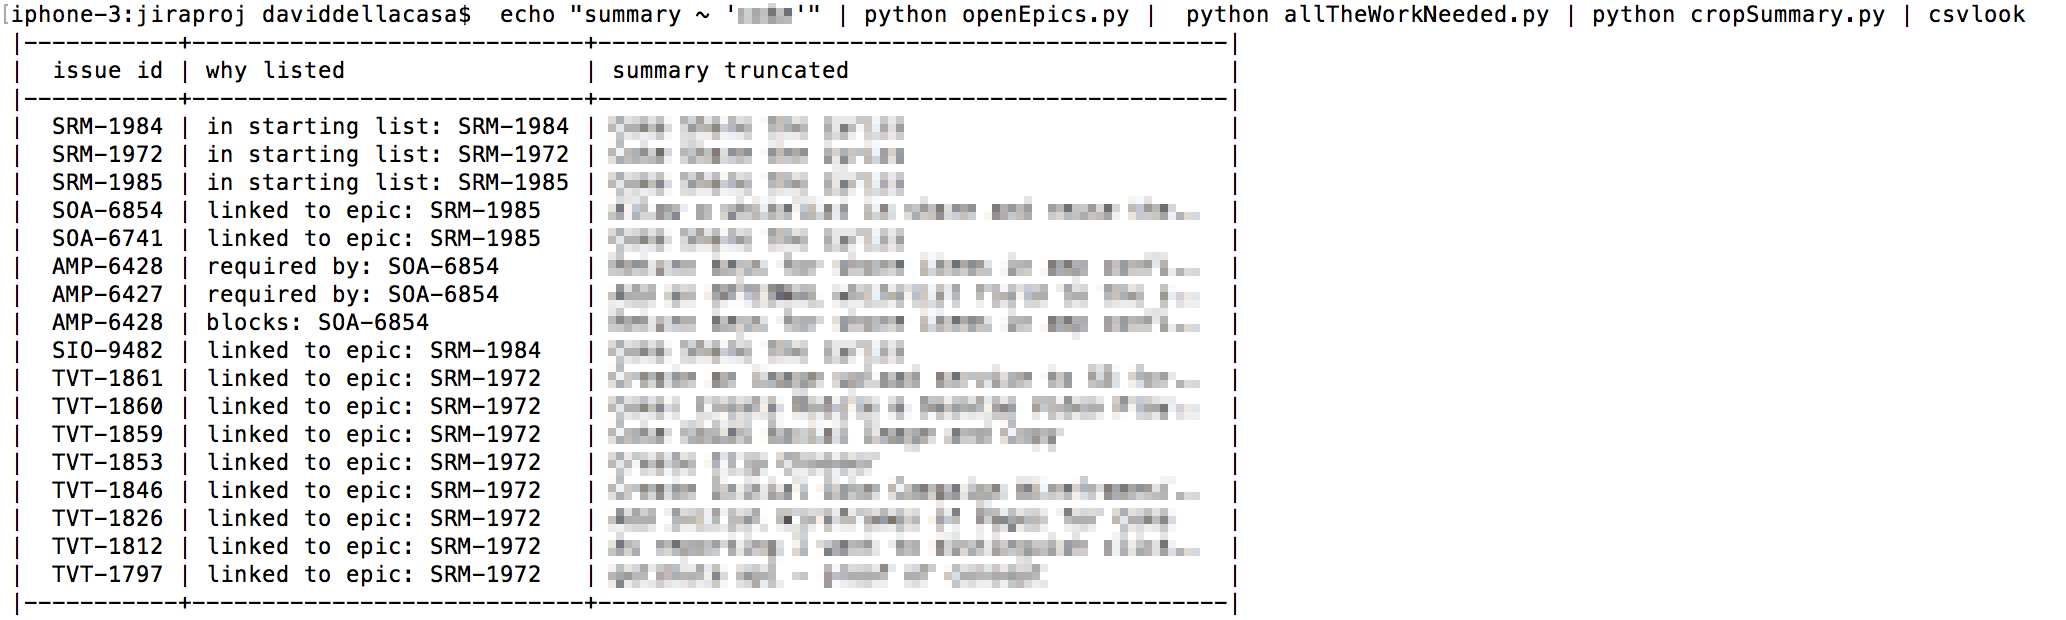
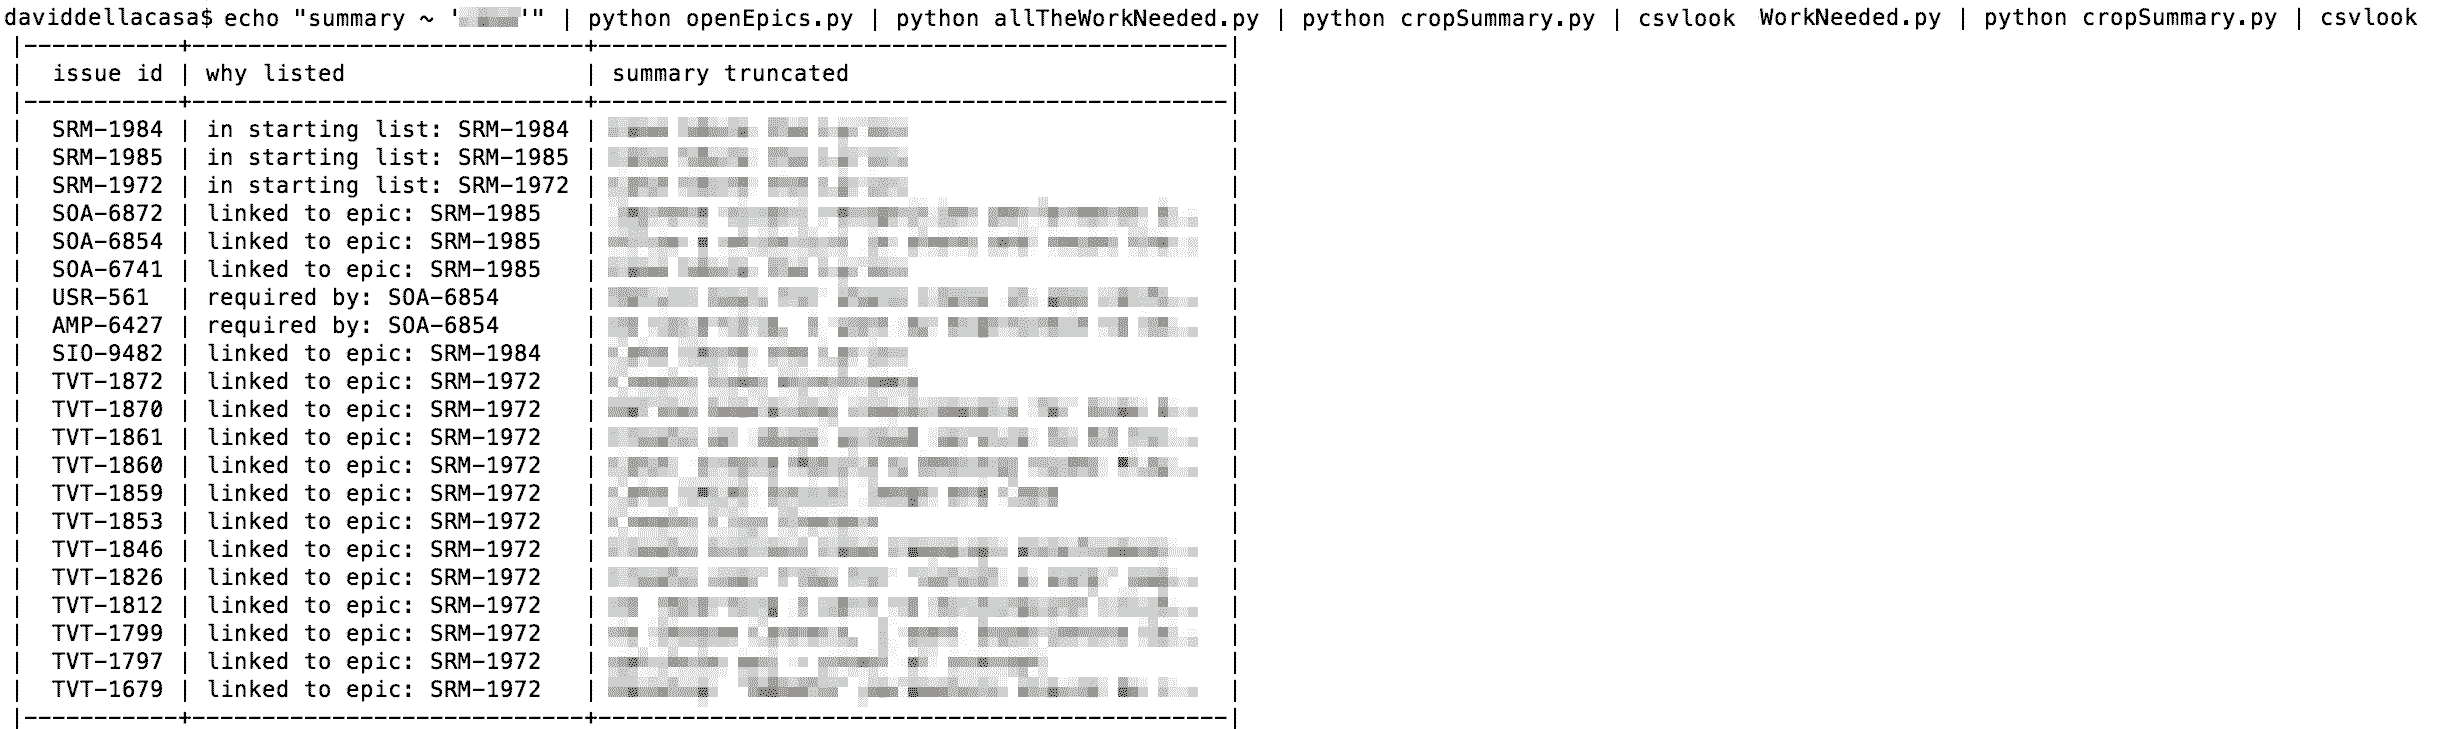
cleaning up a little allTheWorkNeeded.py and making sure there are no duplicates in the final list

Changed region(s): [[0.0, 0.0, 0.9913, 1.0]]

diff --git a/allTheWorkNeeded.py b/allTheWorkNeeded.py
@@ -1,5 +1,7 @@
-# This script shows how to connect to a JIRA instance with a
-# username and password over HTTP BASIC authentication.
+# This script "closes" an initial list of issues under
+# the operations of "subtasks, bloked by, requires, linked issues to this epic"
+# it's not a tree because the links can point to any issue, so it's
+# a proper graph visit.
 
 from jira.client import JIRA
 import csv
@@ -8,14 +10,20 @@ import time
 import configurationData
 
 reader = csv.reader(sys.stdin)
-processedIssues = {}
-issuesToBeProcessed = {}
-       
-# By default, the client will connect to a JIRA instance started from the Atlassian Plugin SDK.
-# See
-# https://developer.atlassian.com/display/DOCS/Installing+the+Atlassian+Plugin+SDK
-# for details.
 
+# a processed issue is an issue where all the
+# "subtasks, bloked by, requires, linked issues to this epic"
+# have been output in the list. Note that these outputted issues
+# might not be "processedIssues" yet. This list only grows.
+processedIssues = {}
+
+# queue of issues to be processed. This list grows and shrinks.
+issuesToBeProcessed = {}
+
+# all issues that make to the list end up here. Not all these
+# issues might be processedIssues yet. This list only grows.
+listedIssues = {}
+       
 options = {
     'server': configurationData.jiraServerUrl
 }
@@ -37,14 +45,17 @@ for row in csv.reader(iter(sys.stdin.readline, '')):
 	rowNumber = rowNumber + 1
 	# skip header
 	if rowNumber > 1:
-		issuesToBeProcessed[row[0]] = row
 
 		key = row[0]
 		# first, get the very issue itself. It's a query that will return only one issue.
 		issues = jira.search_issues('id in (' + key + ')')
 		for eachIssue in issues:
-			writer.writerow({'issue id': eachIssue.key, 'why listed': 'in starting list: ' + key, 'summary': eachIssue.fields.summary})
-			sys.stdout.flush()
+			if (not eachIssue.key in processedIssues) and (not eachIssue.key in listedIssues):
+				issuesToBeProcessed[eachIssue.key] = 1
+				listedIssues[eachIssue.key] = 1
+				listedIssues[eachIssue.key] = 1
+				writer.writerow({'issue id': eachIssue.key, 'why listed': 'in starting list: ' + key, 'summary': eachIssue.fields.summary})
+				sys.stdout.flush()
 
 
 while issuesToBeProcessed:
@@ -60,40 +71,40 @@ while issuesToBeProcessed:
 	issues = jira.search_issues('parent in (' + key + ')')
 	for eachIssue in issues:
 		#print ' > '+ eachIssue
-		if eachIssue.key in processedIssues:
-			continue
-		issuesToBeProcessed[''+eachIssue.key] = 1
-		writer.writerow({'issue id': eachIssue.key, 'why listed': 'child of: ' + key, 'summary': eachIssue.fields.summary})
-		sys.stdout.flush()
+		if (not eachIssue.key in processedIssues) and (not eachIssue.key in listedIssues):
+			issuesToBeProcessed[eachIssue.key] = 1
+			listedIssues[eachIssue.key] = 1
+			writer.writerow({'issue id': eachIssue.key, 'why listed': 'child of: ' + key, 'summary': eachIssue.fields.summary})
+			sys.stdout.flush()
 
 	issues = jira.search_issues('"Epic Link" in (' + key + ')')
 	for eachIssue in issues:
 		#print ' > '+ eachIssue
-		if eachIssue.key in processedIssues:
-			continue
-		issuesToBeProcessed[''+eachIssue.key] = 1
-		writer.writerow({'issue id': eachIssue.key, 'why listed': 'linked to epic: ' + key, 'summary': eachIssue.fields.summary})
-		sys.stdout.flush()
+		if (not eachIssue.key in processedIssues) and (not eachIssue.key in listedIssues):
+			issuesToBeProcessed[eachIssue.key] = 1
+			listedIssues[eachIssue.key] = 1
+			writer.writerow({'issue id': eachIssue.key, 'why listed': 'linked to epic: ' + key, 'summary': eachIssue.fields.summary})
+			sys.stdout.flush()
 
 	issues = jira.search_issues('issue in linkedIssues(' + key + ',"requires")')
 	for eachIssue in issues:
 		#print ' > '+ eachIssue
-		if eachIssue.key in processedIssues:
-			continue
-		issuesToBeProcessed[''+eachIssue.key] = 1
-		writer.writerow({'issue id': eachIssue.key, 'why listed': 'required by: ' + key, 'summary': eachIssue.fields.summary})
-		sys.stdout.flush()
+		if (not eachIssue.key in processedIssues) and (not eachIssue.key in listedIssues):
+			issuesToBeProcessed[eachIssue.key] = 1
+			listedIssues[eachIssue.key] = 1
+			writer.writerow({'issue id': eachIssue.key, 'why listed': 'required by: ' + key, 'summary': eachIssue.fields.summary})
+			sys.stdout.flush()
 
 	issues = jira.search_issues('issue in linkedIssues(' + key + ',"is blocked by")')
 	for eachIssue in issues:
 		#print ' > '+ eachIssue
-		if eachIssue.key in processedIssues:
-			continue
-		issuesToBeProcessed[''+eachIssue.key] = 1
-		writer.writerow({'issue id': eachIssue.key, 'why listed': 'blocks: ' + key, 'summary': eachIssue.fields.summary})
-		sys.stdout.flush()
+		if (not eachIssue.key in processedIssues) and (not eachIssue.key in listedIssues):
+			issuesToBeProcessed[eachIssue.key] = 1
+			listedIssues[eachIssue.key] = 1
+			writer.writerow({'issue id': eachIssue.key, 'why listed': 'blocks: ' + key, 'summary': eachIssue.fields.summary})
+			sys.stdout.flush()
 
 
-	processedIssues[''+key] = 1
-	if ''+key in issuesToBeProcessed:
-		del issuesToBeProcessed[''+key]
+	processedIssues[key] = 1
+	if key in issuesToBeProcessed:
+		del issuesToBeProcessed[key]
